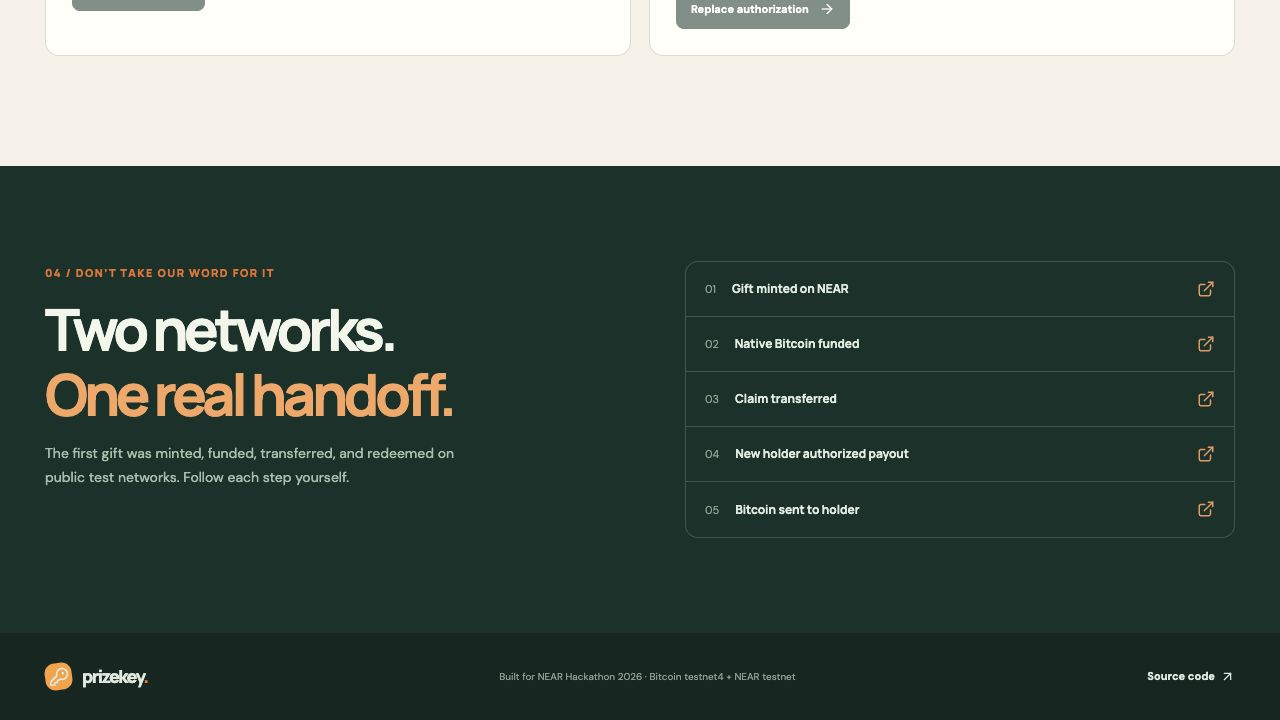
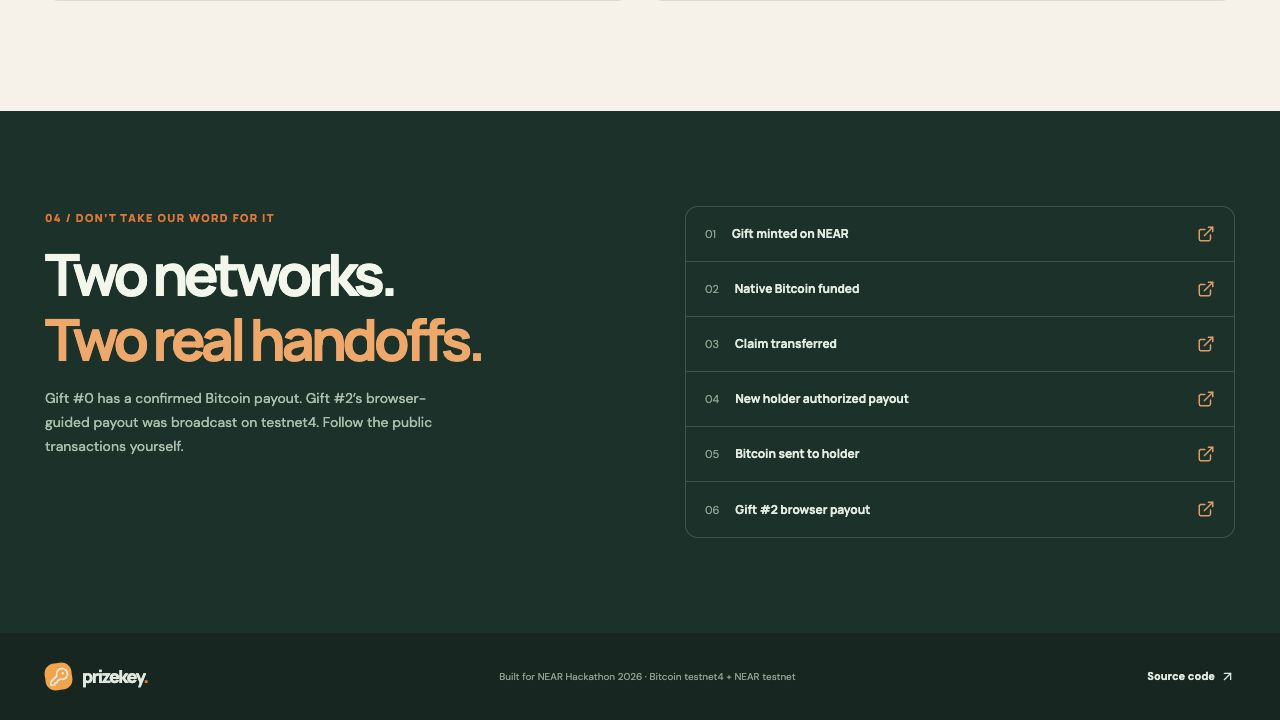
Verify browser-guided native Bitcoin redemption

diff --git a/src/App.jsx b/src/App.jsx
@@ -77,6 +77,7 @@ function App() {
     const requested = new URLSearchParams(window.location.search).get('gift');
     return requested != null && /^\d+$/.test(requested) ? Number(requested) : null;
   });
+  const [refreshNonce, setRefreshNonce] = useState(0);
   const [address, setAddress] = useState('');
   const [publicKey, setPublicKey] = useState('');
   const [balance, setBalance] = useState(null);
@@ -98,7 +99,9 @@ function App() {
     const ids = Array.from({ length: Math.min(total, 24) }, (_, i) => total - 1 - i);
     const rows = await Promise.all(ids.map((id) => view('gift', { token_id: String(id) })));
     setGifts(rows.filter(Boolean));
-    setSelectedId((current) => preferredId ?? current ?? (rows[0]?.id ?? null));
+    setSelectedId((current) => preferredId ?? current ??
+      (rows.find((gift) => gift && !gift.redemption_started)?.id ?? rows[0]?.id ?? null));
+    setRefreshNonce((current) => current + 1);
   }, []);
 
   useEffect(() => {
@@ -125,7 +128,7 @@ function App() {
       if (active && Array.isArray(utxos)) setBalance(utxos.reduce((n, u) => n + u.value, 0));
     }).catch((e) => { if (active) setError(`Bitcoin address lookup: ${e.message}`); });
     return () => { active = false; };
-  }, [selectedId]);
+  }, [selectedId, refreshNonce]);
 
   const run = async (label, fn) => {
     setBusy(label); setError(''); setNotice('');
@@ -223,17 +226,17 @@ function App() {
 
       <section className="trust-strip"><div className="wrap trust-inner"><div><Bitcoin size={20}/><strong>Native Bitcoin</strong><span>No bridge or wrapped asset</span></div><div><KeyRound size={20}/><strong>No seed phrase to share</strong><span>NEAR contract requests signatures</span></div><div><Send size={20}/><strong>Pass it on</strong><span>Ownership moves with the claim</span></div></div></section>
 
-      <section className="section how-section wrap" id="how"><div className="section-intro"><span className="section-kicker">01 / THE SIMPLE PART</span><h2>It feels like a gift.<br /><em>It works like ownership.</em></h2><p>All the cryptography stays behind the scenes. Four steps, two public networks, and one clear handoff.</p></div><div className="steps-grid"><article><span className="step-number">01</span><div className="step-icon peach"><Gift size={25}/></div><h3>Make a gift</h3><p>Create a transferable claim on NEAR with a name and a note.</p></article><article><span className="step-number">02</span><div className="step-icon blue"><Bitcoin size={25}/></div><h3>Add Bitcoin</h3><p>Send testnet4 BTC to the gift’s own Bitcoin address. It never becomes wrapped BTC.</p></article><article><span className="step-number">03</span><div className="step-icon lavender"><Send size={25}/></div><h3>Pass it along</h3><p>Transfer the claim. Only its current owner can ask NEAR to sign for that address.</p></article><article><span className="step-number">04</span><div className="step-icon green"><Wallet size={25}/></div><h3>Redeem anywhere</h3><p>The holder sweeps Bitcoin to their own testnet4 wallet. The claim then locks.</p></article></div></section>
+      <section className="section how-section wrap" id="how"><div className="section-intro"><span className="section-kicker">01 / THE SIMPLE PART</span><h2>It feels like a gift.<br /><em>It works like ownership.</em></h2><p>All the cryptography stays behind the scenes. Four steps, two public networks, and one clear handoff.</p></div><div className="steps-grid"><article><span className="step-number">01</span><div className="step-icon peach"><Gift size={25}/></div><h3>Make a gift</h3><p>Create a transferable claim on NEAR with a name and a note.</p></article><article><span className="step-number">02</span><div className="step-icon blue"><Bitcoin size={25}/></div><h3>Add Bitcoin</h3><p>Send testnet4 BTC to the gift’s own Bitcoin address. It never becomes wrapped BTC.</p></article><article><span className="step-number">03</span><div className="step-icon lavender"><Send size={25}/></div><h3>Pass it along</h3><p>Transfer the claim. The contract checks its current owner before asking NEAR to sign.</p></article><article><span className="step-number">04</span><div className="step-icon green"><Wallet size={25}/></div><h3>Redeem anywhere</h3><p>The holder sweeps Bitcoin to their own testnet4 wallet. The claim then locks.</p></article></div></section>
 
-      <section className="workspace-section" id="create"><div className="wrap workspace-grid"><div className="workspace-heading"><span className="section-kicker">02 / MAKE IT REAL</span><h2>Your next gift<br /><em>starts here.</em></h2><p>Create on NEAR testnet, then fund its Bitcoin address. The contract charges 0.01 testnet NEAR for storage.</p><div className="note-box"><Sparkles size={18}/><span>This is a live testnet prototype. Testnet BTC and NEAR have no monetary value.</span></div></div><form className="form-card" onSubmit={createGift}><div className="form-card-head"><span className="form-icon"><Gift size={20}/></span><span>CREATE A PRIZEKEY</span></div><label>Gift title<input maxLength="80" value={title} onChange={(e) => setTitle(e.target.value)} placeholder="A little Bitcoin" required /></label><label>Your note<textarea maxLength="240" value={message} onChange={(e) => setMessage(e.target.value)} placeholder="Say something memorable…" rows="3" /></label><div className="form-hint"><LockKeyhole size={16}/><span>Your gift gets a unique Bitcoin address controlled by this NEAR contract.</span></div><button className="primary-button wide" disabled={!!busy || !account} type="submit">{busy === 'Creating gift' ? 'Creating…' : account ? 'Create gift' : 'Connect a wallet to create'} <ArrowRight size={18}/></button></form></div></section>
+      <section className="workspace-section" id="create"><div className="wrap workspace-grid"><div className="workspace-heading"><span className="section-kicker">02 / MAKE IT REAL</span><h2>Your next gift<br /><em>starts here.</em></h2><p>Create on NEAR testnet, then fund its Bitcoin address. The contract charges 0.01 testnet NEAR for storage.</p><div className="note-box"><Sparkles size={18}/><span>Live testnet prototype with valueless assets. A contract admin key still permits upgrades; holder control is not trustless yet.</span></div></div><form className="form-card" onSubmit={createGift}><div className="form-card-head"><span className="form-icon"><Gift size={20}/></span><span>CREATE A PRIZEKEY</span></div><label>Gift title<input maxLength="80" value={title} onChange={(e) => setTitle(e.target.value)} placeholder="A little Bitcoin" required /></label><label>Your note<textarea maxLength="240" value={message} onChange={(e) => setMessage(e.target.value)} placeholder="Say something memorable…" rows="3" /></label><div className="form-hint"><LockKeyhole size={16}/><span>Your gift gets a unique Bitcoin address controlled by this NEAR contract.</span></div><button className="primary-button wide" disabled={!!busy || !account} type="submit">{busy === 'Creating gift' ? 'Creating…' : account ? 'Create gift' : 'Connect a wallet to create'} <ArrowRight size={18}/></button></form></div></section>
 
       <section className="section explore-section wrap" id="explore"><div className="explore-head"><div><span className="section-kicker">03 / THE GIFT DESK</span><h2>Every gift has <em>a story.</em></h2><p>Inspect a live claim, its holder, and the actual Bitcoin held at its address.</p></div><button className="quiet-button" onClick={() => run('Refreshing gifts', () => refresh())}>Refresh on-chain data ↗</button></div>
         {gifts.length === 0 ? <div className="empty-state"><Gift size={30}/><strong>No gifts yet</strong><span>Create the first PrizeKey above.</span></div> : <div className="explore-grid"><div className="gift-list">{gifts.map((gift) => <button type="button" className={selectedId === gift.id ? 'gift-list-item selected' : 'gift-list-item'} key={gift.id} onClick={() => setSelectedId(gift.id)}><span className="gift-list-icon"><Bitcoin size={22}/></span><span><strong>{gift.title}</strong><small>Gift #{String(gift.id).padStart(3, '0')} · {gift.redemption_started ? 'Redemption started' : 'Transferable'}</small></span><ArrowUpRight size={18}/></button>)}</div>
           {selected && <div className="gift-detail"><div className="detail-top"><div><span className="tiny-label">LIVE ON NEAR TESTNET</span><h3>{selected.title}</h3><p>{selected.message || 'A Bitcoin gift.'}</p></div><span className={selected.redemption_started ? 'status-chip claimed' : 'status-chip'}>{selected.redemption_started ? 'Redemption started' : 'Transferable'}</span></div><div className="detail-stat-row"><div><small>BITCOIN AT THIS GIFT</small><strong>{balance == null ? 'Loading…' : `${sats(balance)} sats`}</strong><span>{balance == null ? 'Reading testnet4' : balance > 0 ? 'Live UTXO balance' : 'No unspent output'}</span></div><div><small>CURRENT HOLDER</small><strong className="account-value">{short(selected.owner_id, 16, 9)}</strong><span>{isOwner ? 'This is your claim' : 'Verified on NEAR'}</span></div></div><div className="address-box"><span>GIFT’S BITCOIN ADDRESS</span><code>{address || 'Deriving address…'}</code><div>{address && <><CopyButton value={address} label="Copy address"/><a href={`https://mempool.space/testnet4/address/${address}`} target="_blank" rel="noreferrer">View on Bitcoin <ExternalLink size={14}/></a></>}</div></div><div className="detail-foot"><span><ShieldCheck size={17}/> {selected.redemption_started ? 'Transfer frozen after signature request' : 'Gift method checks the current holder'}</span><a href={`https://testnet.nearblocks.io/address/${CONTRACT}`} target="_blank" rel="noreferrer">View contract <ArrowUpRight size={15}/></a></div></div>}</div>}
-                  {selected && <div className="action-grid"><form className="action-card" onSubmit={transferGift}><div className="action-icon lavender"><Send size={22}/></div><h3>Pass it to someone</h3><p>Transfer the claim to another NEAR testnet account. They become the only holder who can redeem.</p><label>Recipient NEAR account<input value={recipient} onChange={(e) => setRecipient(e.target.value)} placeholder="friend.testnet" required disabled={!isOwner || selected.redemption_started}/></label><button className="dark-button" type="submit" disabled={!isOwner || selected.redemption_started || !!busy}>Transfer claim <ArrowRight size={16}/></button></form><form className="action-card" onSubmit={prepareClaim}><div className="action-icon peach"><ArrowUpRight size={22}/></div><h3>Redeem the Bitcoin</h3><p>Sweep the gift’s testnet4 BTC to your own wallet. Starting redemption permanently freezes transfers. If signing fails or a prepared payout is lost, the owner can request a new signature. An earlier signed payout may still broadcast first.</p><label>Your Bitcoin testnet4 address<input value={destination} onChange={(e) => setDestination(e.target.value)} placeholder="tb1q…" disabled={!canAuthorize}/></label><button className="dark-button" type="submit" disabled={!canAuthorize || !!busy || !balance}>{selected.last_signature ? 'Replace authorization' : selected.redemption_started ? 'Retry authorization' : 'Authorize payout'} <ArrowRight size={16}/></button>{canBroadcast && <button className="secondary-button" type="button" onClick={broadcastClaim} disabled={!!busy}>Broadcast prepared Bitcoin payout <ExternalLink size={16}/></button>}{storedTxid && <a className="proof-link" href={btcTx(storedTxid)} target="_blank" rel="noreferrer">Your Bitcoin transaction <ExternalLink size={14}/></a>}</form></div>}
+                  {selected && <div className="action-grid"><form className="action-card" onSubmit={transferGift}><div className="action-icon lavender"><Send size={22}/></div><h3>Pass it to someone</h3><p>Transfer the claim to another NEAR testnet account. The contract checks the new holder before signing; an admin upgrade key remains on this prototype.</p><label>Recipient NEAR account<input value={recipient} onChange={(e) => setRecipient(e.target.value)} placeholder="friend.testnet" required disabled={!isOwner || selected.redemption_started}/></label><button className="dark-button" type="submit" disabled={!isOwner || selected.redemption_started || !!busy}>Transfer claim <ArrowRight size={16}/></button></form><form className="action-card" onSubmit={prepareClaim}><div className="action-icon peach"><ArrowUpRight size={22}/></div><h3>Redeem the Bitcoin</h3><p>Sweep the gift’s testnet4 BTC to your own wallet. Starting redemption permanently freezes transfers. If signing fails or a prepared payout is lost, the owner can request a new signature. An earlier signed payout may still broadcast first.</p><label>Your Bitcoin testnet4 address<input value={destination} onChange={(e) => setDestination(e.target.value)} placeholder="tb1q…" disabled={!canAuthorize}/></label><button className="dark-button" type="submit" disabled={!canAuthorize || !!busy || !balance}>{selected.last_signature ? 'Replace authorization' : selected.redemption_started ? 'Retry authorization' : 'Authorize payout'} <ArrowRight size={16}/></button>{canBroadcast && <button className="secondary-button" type="button" onClick={broadcastClaim} disabled={!!busy}>Broadcast prepared Bitcoin payout <ExternalLink size={16}/></button>}{storedTxid && <a className="proof-link" href={btcTx(storedTxid)} target="_blank" rel="noreferrer">Your Bitcoin transaction <ExternalLink size={14}/></a>}</form></div>}
       </section>
 
[2 lines of base64/hex data omitted]
     </main>
     <footer className="site-footer"><div className="wrap footer-inner"><div className="brand"><span className="brand-mark"><KeyRound size={20}/></span><span>prizekey<span className="brand-dot">.</span></span></div><span>Built for NEAR Hackathon 2026 · Bitcoin testnet4 + NEAR testnet</span><a href="https://github.com/bebe0307mz/prizekey" target="_blank" rel="noreferrer">Source code <ArrowUpRight size={15}/></a></div></footer>
     {(notice || error || lastTx) && <div className={error ? 'toast error' : 'toast'} role="status"><button aria-label="Dismiss" onClick={() => { setNotice(''); setError(''); setLastTx(null); }}><X size={16}/></button><strong>{error ? 'Something needs attention' : busy || 'On-chain update'}</strong><p>{error || notice}</p>{lastTx && <a href={lastTx.bitcoin ? btcTx(lastTx.hash) : nearTx(lastTx.hash)} target="_blank" rel="noreferrer">{lastTx.label} <ExternalLink size={14}/></a>}</div>}

diff --git a/evidence/README.md b/evidence/README.md
@@ -1,6 +1,6 @@
 # Public evidence
 
-The public verifier is `pnpm verify:public`. For gift #0, it checks the current NEAR owner and redemption state, independently derives the gift Bitcoin address, recomputes the payout's SegWit sighash and matches it to the digest stored by the NEAR contract, compares the Bitcoin witness public key and signature components to the derived key and stored MPC signature, checks the 100,000 sat funding output was spent, and checks a confirmed 99,750 sat payout to the recipient address. For gift #1, it checks that the NEAR claim remains transferable and that the gift address has a 100,000 sat UTXO. For gift #2, it checks the final mint and transfer transactions, their arguments and NFT events, and the current owner. It reports current Bitcoin confirmation state, which can change on testnet4. RPC verifies chain state and transactions; the [UI screenshot](browser-create-transfer-2026-11-11.png) documents the browser-guided flow but is not a cryptographic attestation of browser interaction.
+The public verifier is `pnpm verify:public`. For gift #0, it checks the current NEAR owner and redemption state, independently derives the gift Bitcoin address, recomputes the payout's SegWit sighash and matches it to the digest stored by the NEAR contract, compares the Bitcoin witness public key and signature components to the derived key and stored MPC signature, checks the 100,000 sat funding output was spent, and checks a confirmed 99,750 sat payout to the recipient address. For gift #1, it checks that the NEAR claim remains transferable and that the gift address has a 100,000 sat UTXO. For gift #2, it checks final mint, transfer and signing actions, current owner, 20,000 sat funding, 19,750 sat native Bitcoin payout, and the same SegWit digest, derived-key and MPC-witness relationships. An independent CLI build produced gift #2's browser-broadcast transaction ID. The verifier reports current Bitcoin confirmation state, which can change on testnet4. RPC verifies chain state and transactions; screenshots document the browser-guided interaction.
 
 | Step | Public record |
 | --- | --- |
@@ -15,11 +15,14 @@ The public verifier is `pnpm verify:public`. For gift #0, it checks the current 
 | Second prize funded with 100,000 testnet4 sats | [Bitcoin transaction](https://mempool.space/testnet4/tx/b201de6a6bf2605fe06a05e920267a7327ab46c4bed6d65c1529e41c1ea2feef) |
 | Browser-guided gift #2 created | [NEAR transaction](https://testnet.nearblocks.io/txns/9FG1zzvcndTZS51w3J4UFWkUnVQnF1PSjRpwMS2ZDSE3) |
 | Browser-guided gift #2 transferred | [NEAR transaction](https://testnet.nearblocks.io/txns/C2Km3c5KkduLeRfv7tS9Kt829kNYmBnxj92CMg66iu4N) |
+| Gift #2 funded with 20,000 testnet4 sats | [Bitcoin transaction](https://mempool.space/testnet4/tx/94941c6f05f512afac3eea0f7e7b4fa6407c03b8170776d0426c19c198abff1d) |
+| Browser-guided holder authorized Bitcoin signature | [NEAR transaction](https://testnet.nearblocks.io/txns/Ft1hmMjDpW6AuXmELEtohZUDX75YahN7crYDk3ppEkNg) |
+| Browser broadcast native 19,750 sat payout | [Bitcoin transaction](https://mempool.space/testnet4/tx/58619632aa1e44ce6e28cb838d4015046894585b1ca3e0e2ff463bcf016a8550) |
 
-Testnet4 payout confirmed at block 160513. The recipient address is `tb1qfmv0pfzuv0pu5fa570a8nrm7rs6jkpxkv0a6fj`. Both networks' assets here are valueless test assets.
+Gift #0's testnet4 payout confirmed at block 160513. Gift #2's payout was broadcast; run `pnpm verify:public` for its current confirmation status. The destination addresses are `tb1qfmv0pfzuv0pu5fa570a8nrm7rs6jkpxkv0a6fj` and `tb1q40tm8unf8g7lcg4cmg47fhmhhyssnuqfqaesr5`. Both networks' assets here are valueless test assets.
 
 `claim-local.json` and `poc-spend-local.json` are local transaction preparation files. They are excluded from Git because they contain operational records and are unnecessary to verify the public result.
 
 ## Demo screenshots
 
-The [hero](demo-hero.png), [funded transferable prize](demo-funded-gift.png), [completed gift](demo-redeemed-gift.png), [public proof links](demo-proof.png), and [browser-guided create/transfer result](browser-create-transfer-2026-11-11.png) were captured from the local app on 11 November. They show live public testnet state read by the hosted demo. The completed Bitcoin payout is a previously recorded CLI transaction; these still images do not prove a browser redemption.
+The [hero](demo-hero.png), [funded transferable prize](demo-funded-gift.png), [completed gift #0](demo-redeemed-gift.png), [public proof links](demo-proof.png), [gift #2 transfer](browser-create-transfer-2026-11-11.png), [funded gift #2 before redemption](browser-funded-before-redeem-2026-11-11.png), [browser broadcast action](browser-redeem-2026-11-11.png), and [gift #2 after payout](browser-redeem-result-2026-11-11.png) were captured from the local app on 11 November. They show public testnet state and the browser-guided transaction result; the verifier independently checks the chain evidence.

diff --git a/README.md b/README.md
@@ -18,7 +18,7 @@ The first gift was created, funded with 100,000 testnet4 sats, transferred to a 
 
 A second gift, **A Bitcoin prize**, is currently funded with a 100,000 sat testnet4 UTXO and remains transferable. It gives the public app a live unredeemed claim to inspect. Testnet4 confirmation status can change after a reorganization; the verifier reports the current status.
 
-The browser app reads live contract state and Bitcoin UTXOs. We connected its NEAR CLI wallet option, created gift #2 through the browser, signed the requested testnet transaction in the terminal, pasted its hash into the wallet panel, and then transferred that gift through the same browser flow. [The browser screenshot](evidence/browser-create-transfer-2026-11-11.png) shows the new owner; `pnpm verify:public` checks the two final transactions and contract state. This wallet option requires a terminal to sign; it is not an in-browser signer. The full Bitcoin handoff for gift #0 was executed from the CLI; **a browser redemption remains unverified**. The app does not provide Bitcoin testnet4 faucet funds or a Bitcoin wallet.
+The browser app reads live contract state and Bitcoin UTXOs. Its NEAR CLI wallet option created gift #2, transferred it to a second NEAR account, requested that holder's Chain Signatures authorization, and broadcast a native Bitcoin testnet4 payout of 19,750 sats from a 20,000 sat gift. The wallet option prompted for terminal signing and a transaction hash at each NEAR step; it is a **browser-guided CLI signing flow**, not an embedded in-browser signer. The browser itself prepared and broadcast the Bitcoin transaction. `pnpm verify:public` checks the final NEAR actions, Bitcoin input/output, SegWit sighash, derived gift key, and MPC witness signature. An independent CLI build produced the same Bitcoin transaction ID as the browser. [Screenshots and transaction links](evidence/README.md) document the flow. The new payout was broadcast; current confirmation status is reported by the verifier. The app does not provide Bitcoin testnet4 faucet funds or a Bitcoin wallet.
 
 ## Why NEAR
 
@@ -42,7 +42,7 @@ To create a fresh gift, connect a NEAR **testnet** wallet with at least 0.01 tes
 
 - [`contracts/gift/src/lib.rs`](contracts/gift/src/lib.rs): owner-gated gift creation, direct transfer, MPC signing request, asynchronous callback, and gift views.
 - [`src/App.jsx`](src/App.jsx): live testnet UI and browser-side Bitcoin transaction preparation, signing request, and broadcast.
-- [`scripts/verify-public.mjs`](scripts/verify-public.mjs): repeatable public-chain checks for the completed Bitcoin handoff, funded prize, and browser-guided create/transfer transactions. Public RPC verifies transaction content and state; it cannot attest the browser interaction itself.
+- [`scripts/verify-public.mjs`](scripts/verify-public.mjs): repeatable public-chain checks for two completed Bitcoin handoffs, the still-funded prize, and the browser-guided NEAR transactions. Public RPC verifies transaction content and state; screenshots document the browser actions.
 
 This is a **direct-transfer NFT subset**, not full NEP-171: `nft_transfer_call` and approvals are absent. The contract does not parse or enforce the Bitcoin payout destination or fee: the holder authorizes a 32-byte digest, and the current browser prepares a one-input, one-output sweep with a fixed 250 sat fee. Anyone using the app should review the displayed destination and use only valueless test assets. A deployed full-access account key currently permits an account controller to replace the contract or bypass its policy; **do not treat this deployment as a trustless production vault**. We intend to remove that key only after the contract and demonstration are finalized. There is no automatic Bitcoin confirmation watcher or refund after redemption starts. Further funding after redemption can strand Bitcoin if the owner does not sign again. No mainnet or real-value flow has been tested.
 

diff --git a/DEMO.md b/DEMO.md
@@ -4,12 +4,12 @@
 
 **15–35s — Product.** Open the app on gift #1, **A Bitcoin prize**. Show its 100,000 sat UTXO and current NEAR owner. The organizer funded the prize's native Bitcoin address before knowing the final Bitcoin destination. The claim remains transferable.
 
-**35–65s — Real handoff.** Show one complete previous handoff using gift #0: the NEAR claim moved to a new account, that account requested the Chain Signatures signature, and the Bitcoin payout is confirmed. Open the transfer and Bitcoin payout links, then show the gift #0 owner and zero balance in the app. This is historical proof, not a fresh browser transaction.
+**35–70s — Browser-guided handoff.** Show gift #2's recorded sequence: created in the browser, transferred to a second NEAR account, then funded with 20,000 testnet4 sats, authorized by that holder with Chain Signatures, and paid out as a native 19,750 sat Bitcoin transaction. Gift #1 separately demonstrates funding before the winner is known. Show the [before](evidence/browser-funded-before-redeem-2026-11-11.png) and [after](evidence/browser-redeem-result-2026-11-11.png) screenshots and the exact transaction links. The NEAR CLI wallet option required terminal commands and hash verification; the browser prepared and broadcast the Bitcoin payout.
 
-**65–90s — Why NEAR.** The gift contract checks its current owner before requesting the Chain Signatures MPC signature; Bitcoin receives an ordinary native transaction. No bridge or wrapped token. End with `pnpm verify:public` reporting gift #0's completed payout and gift #1's still-funded UTXO.
+**70–90s — Why NEAR.** The gift contract checks its current owner before requesting the Chain Signatures MPC signature; Bitcoin receives an ordinary native transaction. No bridge or wrapped token. End with `pnpm verify:public` reporting two Bitcoin payouts and gift #1's still-funded UTXO.
 
-The NEAR CLI wallet option was exercised in the browser with gift #2: create and direct transfer both completed on NEAR testnet and appeared in the UI. It prompts for a terminal command and transaction hash, so label it a **browser-guided CLI signing flow**. Gift #2 is unfunded. For the final video, show the funded gift #1 and gift #0's historical payout, then the gift #2 screenshot and exact two transaction links. A fresh browser redemption still needs a funded testnet4 UTXO and a recipient Bitcoin testnet4 address; it remains unverified.
+Gift #2's payout was built in the browser and independently reconstructed by the CLI with the same Bitcoin transaction ID. The NEAR authorization used the browser's NEAR CLI option. Label the signing step accurately; the wallet was connected to the UI but transaction signing occurred in the terminal. The payout was broadcast on testnet4; its confirmation may lag or change after a reorganization.
 
 ## Evidence and claims
 
-The first gift's complete handoff is verified on public test networks. Browser-guided create and transfer of gift #2 are also verified by final NEAR transactions. Browser redemption remains unverified. The testnet account currently has a privileged full-access key. State both limitations if asked; do not call the current deployment trustless or production safe.
+Two gift handoffs are verified on public test networks. Gift #2 includes browser-guided create, transfer, authorization and browser Bitcoin broadcast. The testnet account currently has a privileged full-access key. Do not call the current deployment trustless or production safe.
